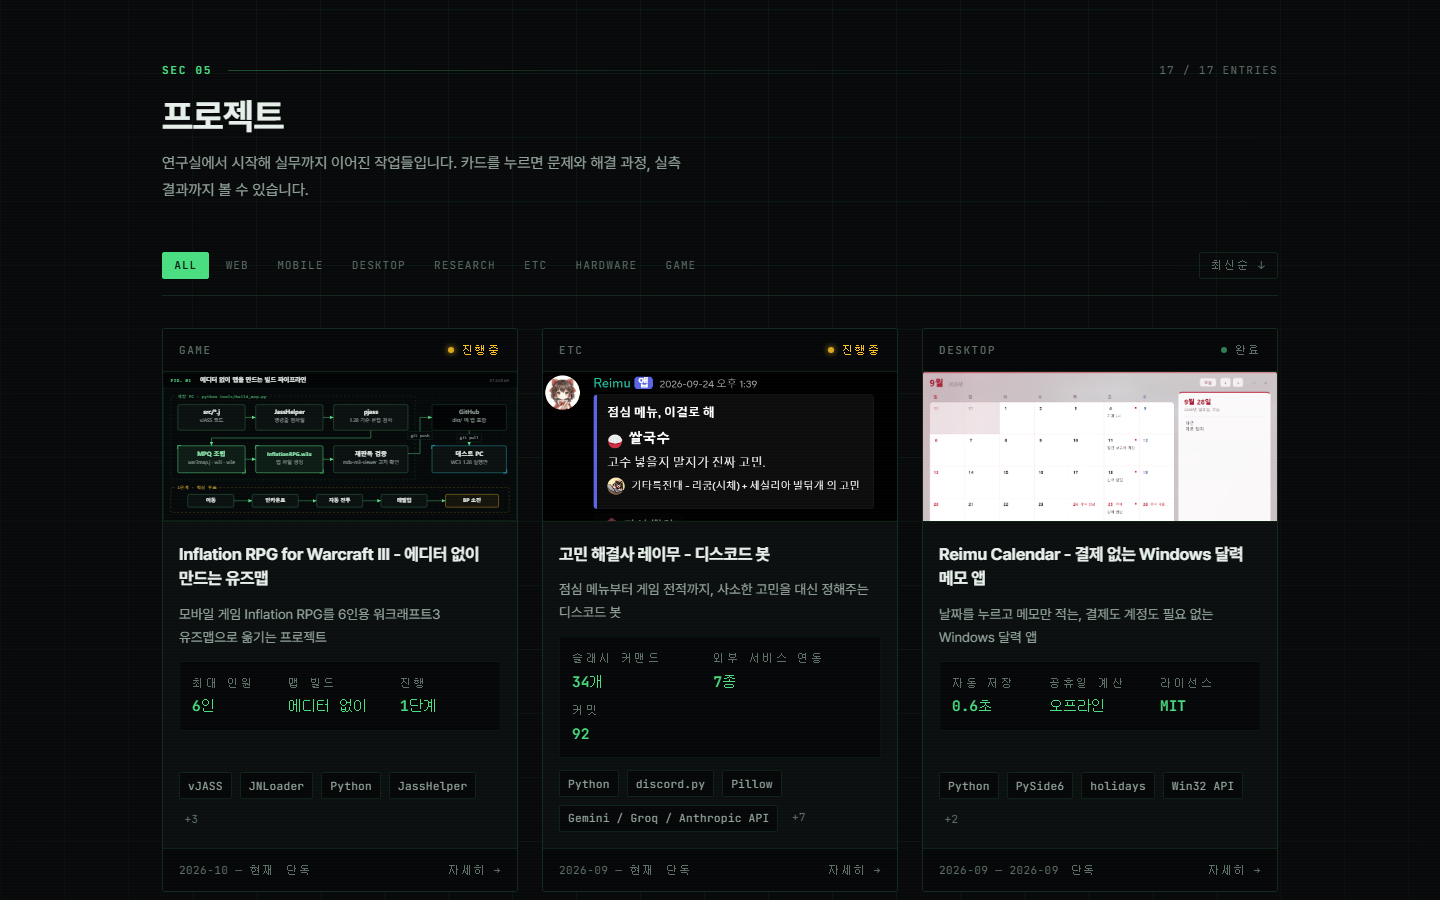
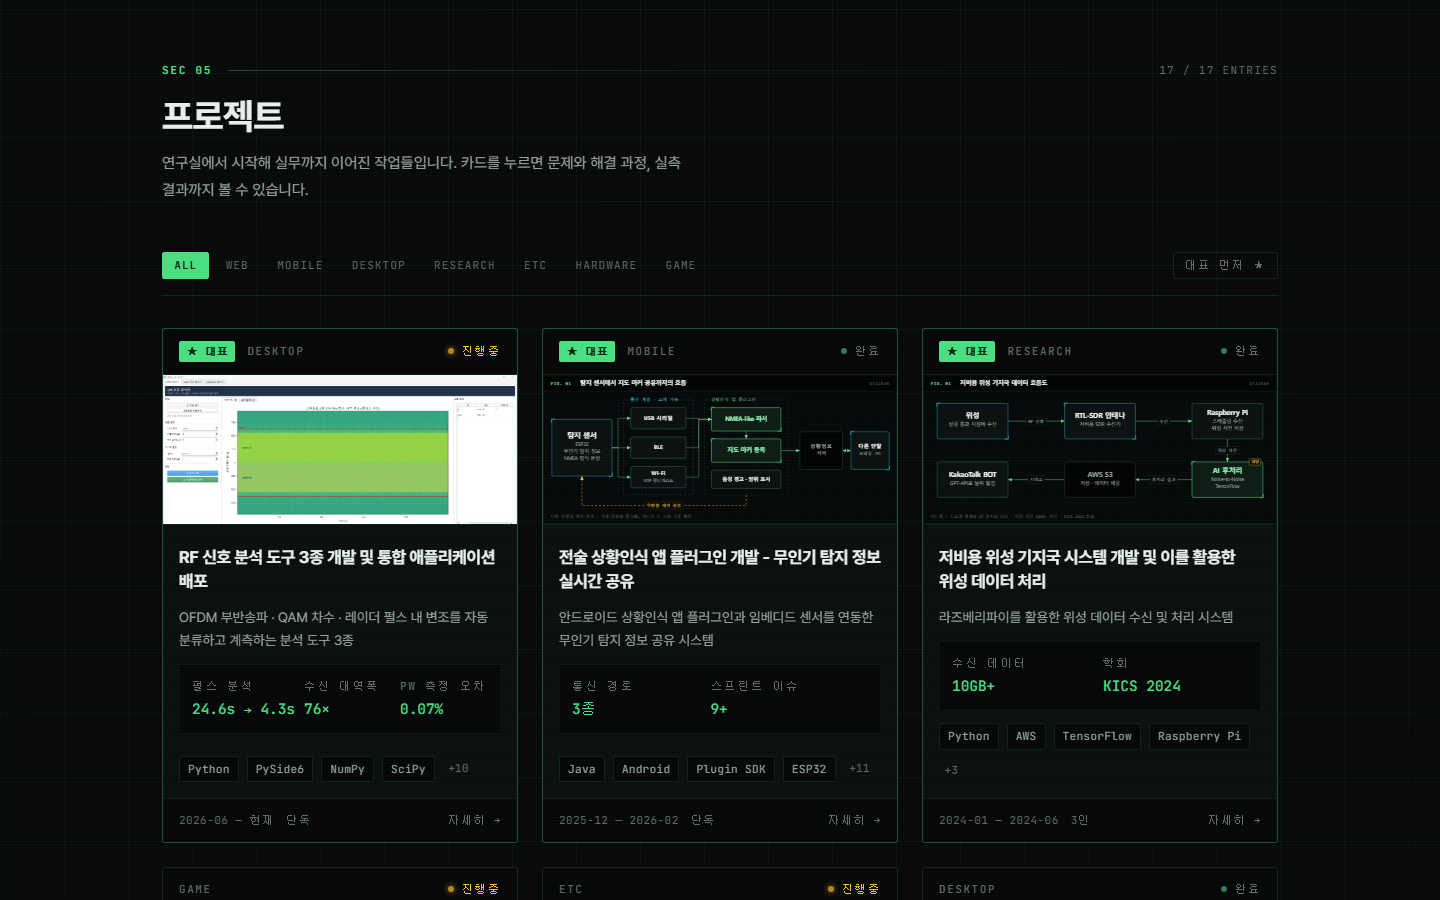
feat: 대표 프로젝트 3건을 목록 맨 앞에 고정
기본 정렬이 최신순이라 상단이 취미 프로젝트로 채워지던 것을, 실무와
연구를 대표하는 프로젝트가 먼저 보이도록 바꿨다.

- featured 필드 추가: RF 신호 분석 도구(12), 전술 상황인식 플러그인(11),
  저비용 위성 기지국(2)
- 기본 정렬 '대표 먼저': 대표를 앞에, 그 안과 나머지는 최신순
- 정렬 버튼은 대표 먼저 → 최신순 → 오래된순 순서로 돈다
- 대표 카드에는 '★ 대표' 표시와 밝은 테두리
- 포트폴리오 사이트(3)의 카드 화면 캡처를 바뀐 화면으로 다시 찍었다

diff --git a/src/components/ProjectsSection.tsx b/src/components/ProjectsSection.tsx
@@ -28,12 +28,27 @@ const CATEGORY_TEXT: Record<Project['category'], string> = {
   game: 'GAME',
 };
 
-type SortKey = 'date-desc' | 'date-asc';
+type SortKey = 'featured' | 'date-desc' | 'date-asc';
 type FilterKey = 'all' | Project['category'];
+
+// 정렬 버튼을 누를 때마다 다음 방식으로 넘어간다
+const SORT_NEXT: Record<SortKey, SortKey> = {
+  featured: 'date-desc',
+  'date-desc': 'date-asc',
+  'date-asc': 'featured',
+};
+
+const SORT_LABEL: Record<SortKey, string> = {
+  featured: '대표 먼저 ★',
+  'date-desc': '최신순 ↓',
+  'date-asc': '오래된순 ↑',
+};
+
+const startOf = (p: Project) => new Date(`${p.startDate}-01`).getTime();
 
 const ProjectsSection: React.FC<ProjectsSectionProps> = () => {
   const navigate = useNavigate();
-  const [sortBy, setSortBy] = useState<SortKey>('date-desc');
+  const [sortBy, setSortBy] = useState<SortKey>('featured');
   const [filter, setFilter] = useState<FilterKey>('all');
 
   // 실제로 존재하는 카테고리만 필터 버튼으로 노출한다
@@ -51,9 +66,12 @@ const ProjectsSection: React.FC<ProjectsSectionProps> = () => {
         : projects.filter((p) => p.category === filter);
 
     return [...filtered].sort((a, b) => {
-      const da = new Date(`${a.startDate}-01`).getTime();
-      const db = new Date(`${b.startDate}-01`).getTime();
-      return sortBy === 'date-desc' ? db - da : da - db;
+      if (sortBy === 'date-asc') return startOf(a) - startOf(b);
+      // 기본(대표 먼저): 대표 프로젝트를 앞에 두고, 그 안에서는 최신순
+      if (sortBy === 'featured' && Boolean(a.featured) !== Boolean(b.featured)) {
+        return a.featured ? -1 : 1;
+      }
+      return startOf(b) - startOf(a);
     });
   }, [filter, sortBy]);
 
@@ -105,11 +123,9 @@ const ProjectsSection: React.FC<ProjectsSectionProps> = () => {
           <button
             type="button"
             className="proj-sort"
-            onClick={() =>
-              setSortBy((s) => (s === 'date-desc' ? 'date-asc' : 'date-desc'))
-            }
+            onClick={() => setSortBy((s) => SORT_NEXT[s])}
           >
-            {sortBy === 'date-desc' ? '최신순 ↓' : '오래된순 ↑'}
+            {SORT_LABEL[sortBy]}
           </button>
         </div>
 
@@ -121,7 +137,9 @@ const ProjectsSection: React.FC<ProjectsSectionProps> = () => {
             return (
               <article
                 key={project.id}
-                className="proj-card panel reveal"
+                className={`proj-card panel reveal ${
+                  project.featured ? 'is-featured' : ''
+                }`}
                 onClick={() => openProject(project.id)}
                 onKeyDown={(e) => {
                   if (e.key === 'Enter' || e.key === ' ') {
@@ -132,8 +150,11 @@ const ProjectsSection: React.FC<ProjectsSectionProps> = () => {
                 role="link"
                 tabIndex={0}
               >
-                {/* 상단 바: 분야 / 상태 */}
+                {/* 상단 바: 대표 / 분야 / 상태 */}
                 <div className="proj-card-bar">
+                  {project.featured && (
+                    <span className="proj-featured">★ 대표</span>
+                  )}
                   <span className="mono-label">
                     {CATEGORY_TEXT[project.category]}
                   </span>

diff --git a/src/data/projects.ts b/src/data/projects.ts
@@ -54,6 +54,7 @@ export const projects: Project[] = [
     endDate: '2024-06',
     teamSize: 3,
     myRole: '시스템 설계 및 AI 후처리 개발',
+    featured: true,
     metrics: [{ label: '수신 데이터', value: '10GB+' }, { label: '학회', value: 'KICS 2024' }],
     features: [
       '라즈베리파이 기반 위성 기지국 구축',
@@ -465,6 +466,7 @@ export const projects: Project[] = [
     endDate: '2026-02',
     teamSize: 1,
     myRole: '앱 플러그인 및 센서 펌웨어 개발',
+    featured: true,
     metrics: [{ label: '통신 경로', value: '3종' }, { label: '스프린트 이슈', value: '9+' }],
     features: [
       '임베디드 센서와 안드로이드 단말 간 3종 통신 경로 구현 (USB 시리얼 / BLE / Wi-Fi)',
@@ -509,6 +511,7 @@ export const projects: Project[] = [
     startDate: '2026-06',
     teamSize: 1,
     myRole: '신호처리 알고리즘 설계, 분석 도구 및 장비 연동 개발, 배포',
+    featured: true,
     metrics: [{ label: '펄스 분석', value: '24.6s → 4.3s' }, { label: '수신 대역폭', value: '76×' }, { label: 'PW 측정 오차', value: '0.07%' }],
     features: [
       '[OFDM] STFT 기반 방출 구간 검출 및 OFDM 여부 판정',

diff --git a/src/components/ProjectsSection.css b/src/components/ProjectsSection.css
@@ -129,6 +129,24 @@
   flex: 1 1 auto;
 }
 
+/* 대표 프로젝트: 테두리를 조금 밝히고 윗변에 인광 줄 */
+.proj-card.is-featured {
+  border-color: var(--line-strong);
+  box-shadow: inset 0 1px 0 var(--phosphor);
+}
+
+.proj-featured {
+  font-family: var(--font-mono);
+  font-size: 0.66rem;
+  font-weight: 700;
+  letter-spacing: 0.08em;
+  color: #06210f;
+  background: var(--phosphor);
+  border-radius: 2px;
+  padding: 0.12rem 0.45rem;
+  white-space: nowrap;
+}
+
 .proj-status {
   display: inline-flex;
   align-items: center;

diff --git a/src/types/Project.ts b/src/types/Project.ts
@@ -12,6 +12,8 @@ export interface Project {
   endDate?: string;
   teamSize: number;
   myRole: string;
+  /** 대표 프로젝트. 기본 정렬에서 맨 앞에 고정되고 카드에 '대표' 표시가 붙는다 */
+  featured?: boolean;
   /** 카드와 상세 상단에 크게 띄울 대표 수치. 2~3개가 적당하다 */
   metrics?: { label: string; value: string }[];
   features: string[];
